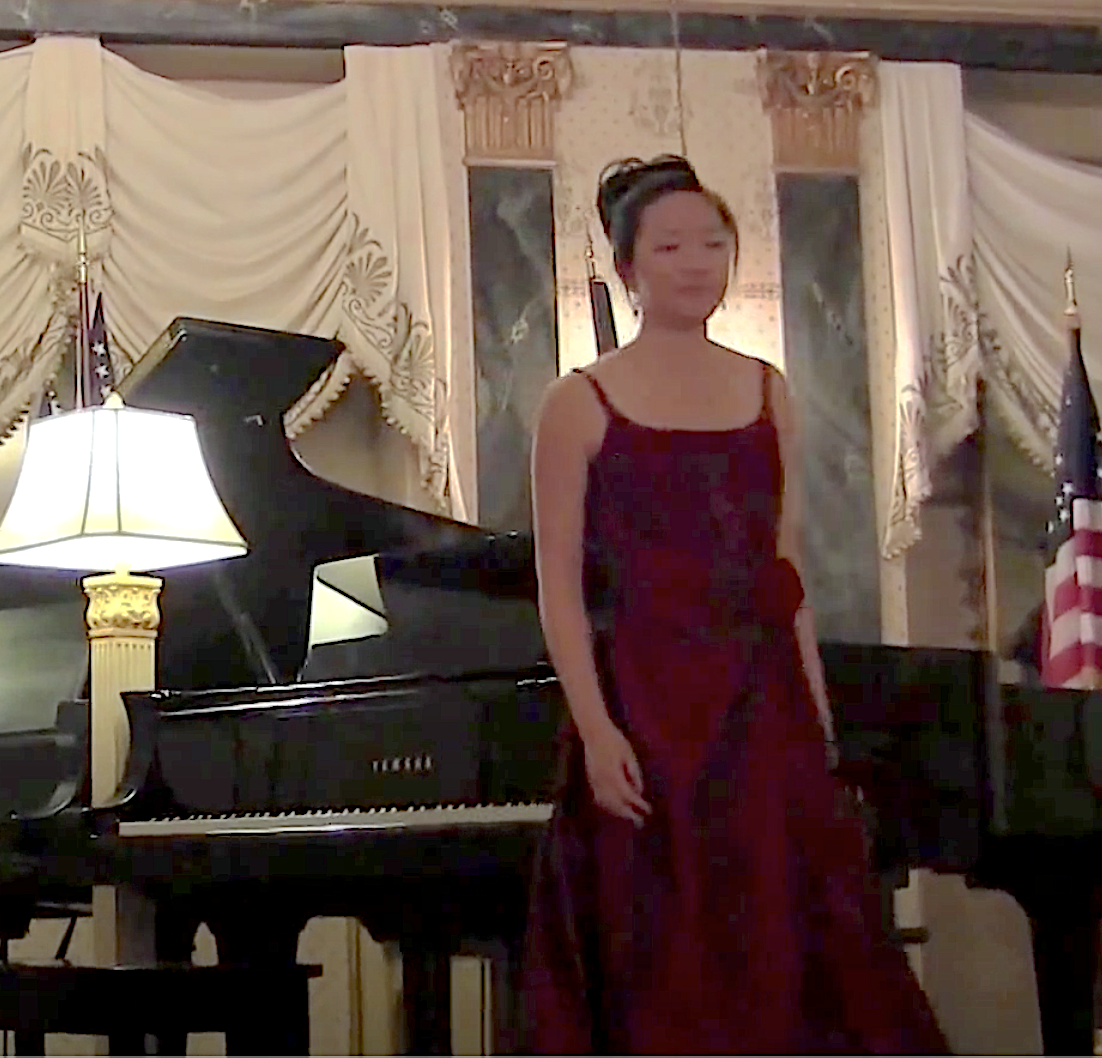
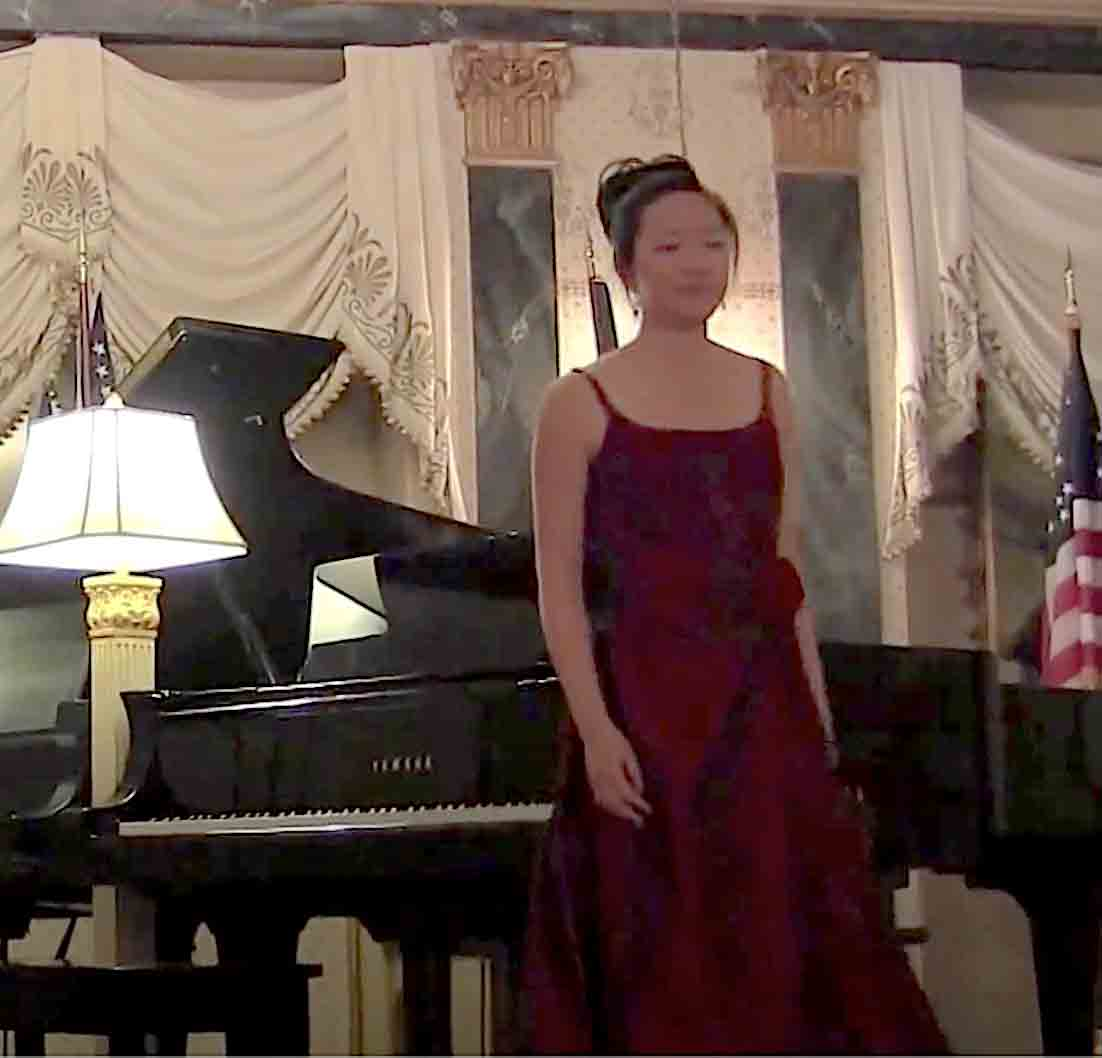
even more small files

Changed region(s): [[0.1234, 0.5302, 0.1543, 0.5926], [0.0617, 0.2807, 0.0926, 0.3119]]

diff --git a/index.html b/index.html
@@ -65,7 +65,7 @@
 
    <!-- home
    ================================================== -->
-   <section id="home" class="s-home page-hero target-section" data-parallax="scroll" data-image-src="images/mefit.png" data-natural-width=2249  data-natural-height=1285 data-position-y=top>
+   <section id="home" class="s-home page-hero target-section" data-parallax="scroll" data-image-src="images/mefit.jpg" data-natural-width=2249  data-natural-height=1285 data-position-y=top>
 
         <div class="overlay"></div>
         <div class="shadow-overlay"></div>
